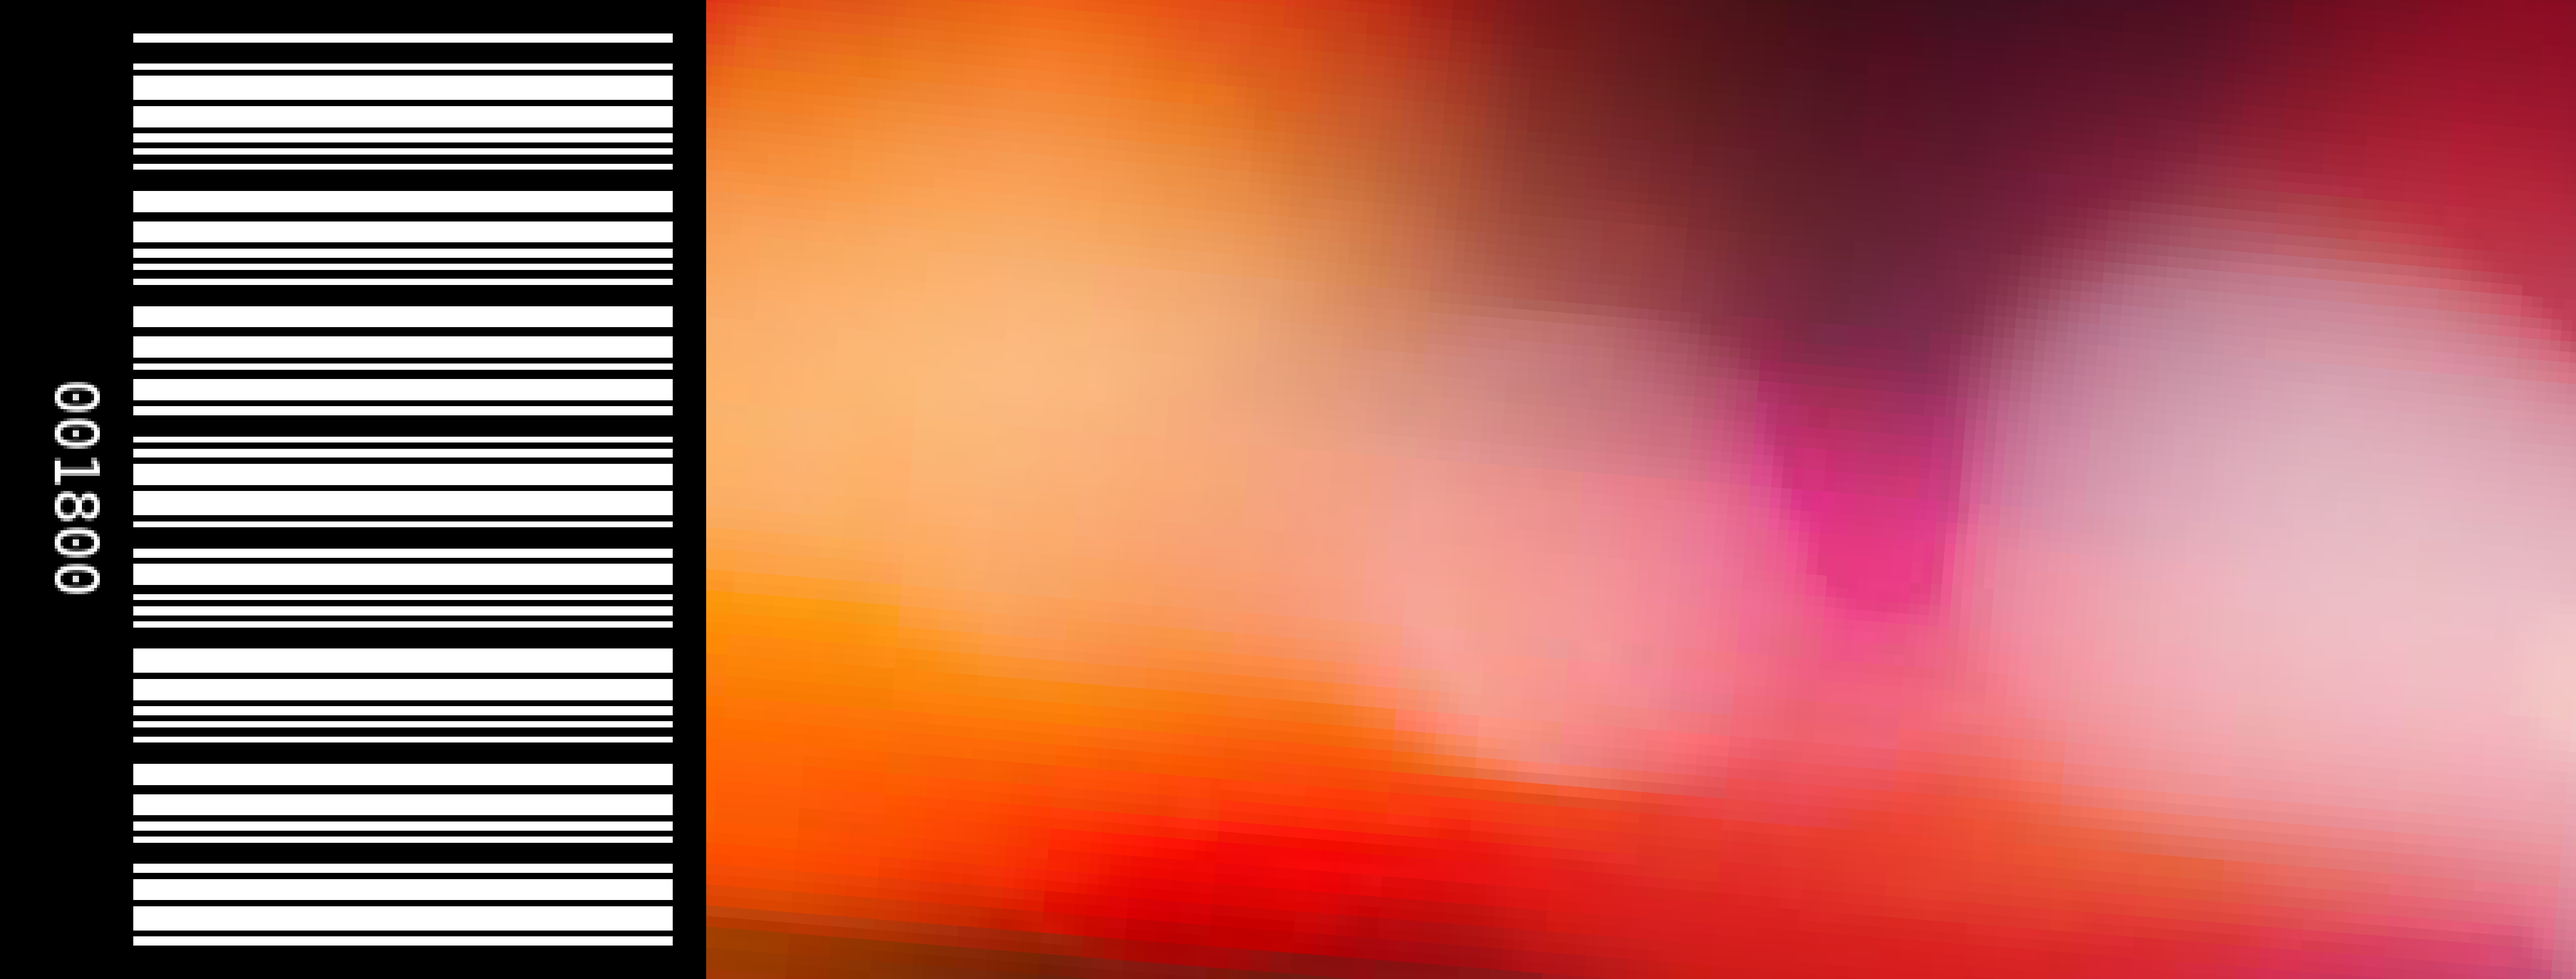
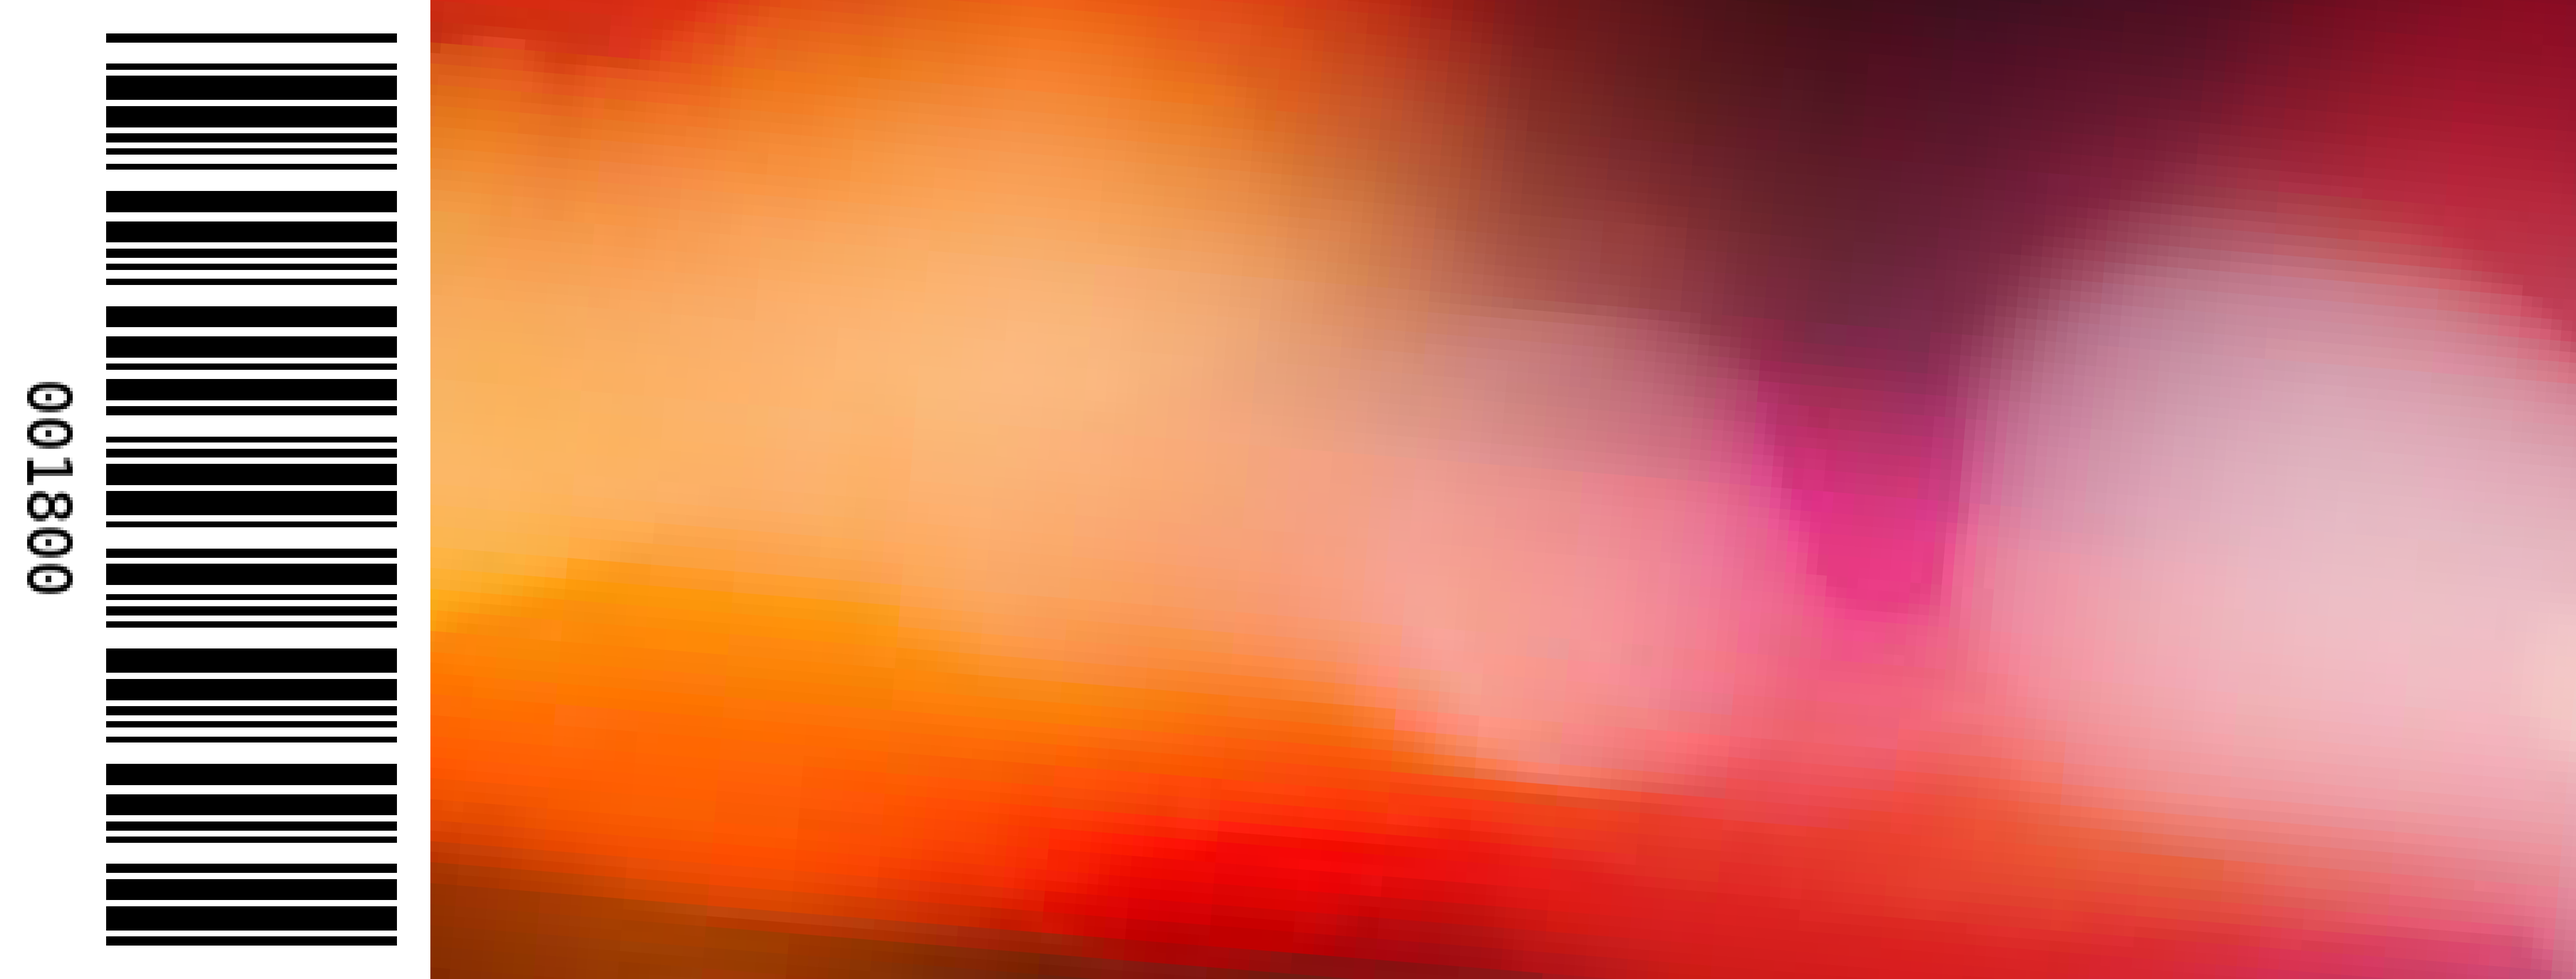
added colors, fixed barcode bugs

Changed region(s): [[0.0, 0.0, 0.2811, 1.0]]

diff --git a/test_barcode.py b/test_barcode.py
@@ -1,76 +1,58 @@
-# import PIL 
 from PIL import Image
 from pprint import pprint as pp
 import barcode
 from barcode.writer import ImageWriter
-# from barcode import generate
 
 
 def generate_barcode(ticket_id):
-    pp(ticket_id)
-    # ean = barcode.get('ean8', ticket_id, writer=ImageWriter())
-    # pp(ean.get_fullcode())
     barcode_class = barcode.get_barcode_class("code39")
     generated_barcode = barcode_class(ticket_id,add_checksum=False, writer=ImageWriter())
     pp(generated_barcode.get_fullcode())
     barcode_filename = generated_barcode.save(
         "barcodes/{}".format(ticket_id), 
         options={
-            # "module_height":
-            # "module_width":
-            "background":"rgba(0,0,0,0)",
-            "foreground":"white",
+            "background":'white',#"rgba(0,0,0,0)", | darkorange | peru | lightpink | mediumvioletred | lightsalmon | lightcoral
+            "foreground":"black",
             "quiet_zone":1,
-            "text_distance":1
-            }#,text=ticket_id
+            "text_distance":1,
+            "module_height":8 # default is 15mm
+            }
         )
     pp(barcode_filename) ###
     return barcode_filename
 
 
 def coordinates_centered(fg_barcode,bg_template):
-    
     delta = bg_template.size[1] - fg_barcode.size[1]
-    
     if delta > 0:
         height_offset = int(delta / 2)
-
         coodinates_centered = (0,height_offset)
     else:
         coodinates_centered = (0,0)
-
     return coodinates_centered
 
 
 def merge_barcode(ticket_id, barcode_filename, template_filename):
-    
     ticket_filename = "tickets/{}_ticket.png".format(ticket_id)
-
     fg_barcode = Image.open(barcode_filename).convert("RGBA")
     bg_template = Image.open(template_filename)
-    
     fg_barcode = fg_barcode.rotate(-90, Image.NEAREST, expand = 1) 
-    
     mult = bg_template.size[1] / fg_barcode.size[1]
-
-    pp(mult)
-
     fg_barcode = fg_barcode.resize(
         (
             int(fg_barcode.size[0] * mult),
             int(fg_barcode.size[1] * mult)
         )
     )
-    # fg_barcode.thumbnail((bg_template.size[1],), Image.ANTIALIAS)
-
-    bg_template.paste(fg_barcode, coordinates_centered(fg_barcode,bg_template), fg_barcode)
+    h, w = coordinates_centered(fg_barcode,bg_template)
+    bg_template.paste(fg_barcode, (w-50,h), fg_barcode)
     bg_template.save(ticket_filename,format="png")
-    
     pp(ticket_filename)
     return ticket_filename
 
+
+
 if __name__=="__main__":
-    
     start_number = 1800
     number_to_print = 1
     template_filename = "templates/blank_bdn_background.png"
@@ -79,7 +61,6 @@ if __name__=="__main__":
         ticket_id = str(ticket_id).zfill(6)
 
         barcode_filename = generate_barcode(ticket_id)
-        
         merge_barcode(ticket_id, barcode_filename, template_filename)
 
 
